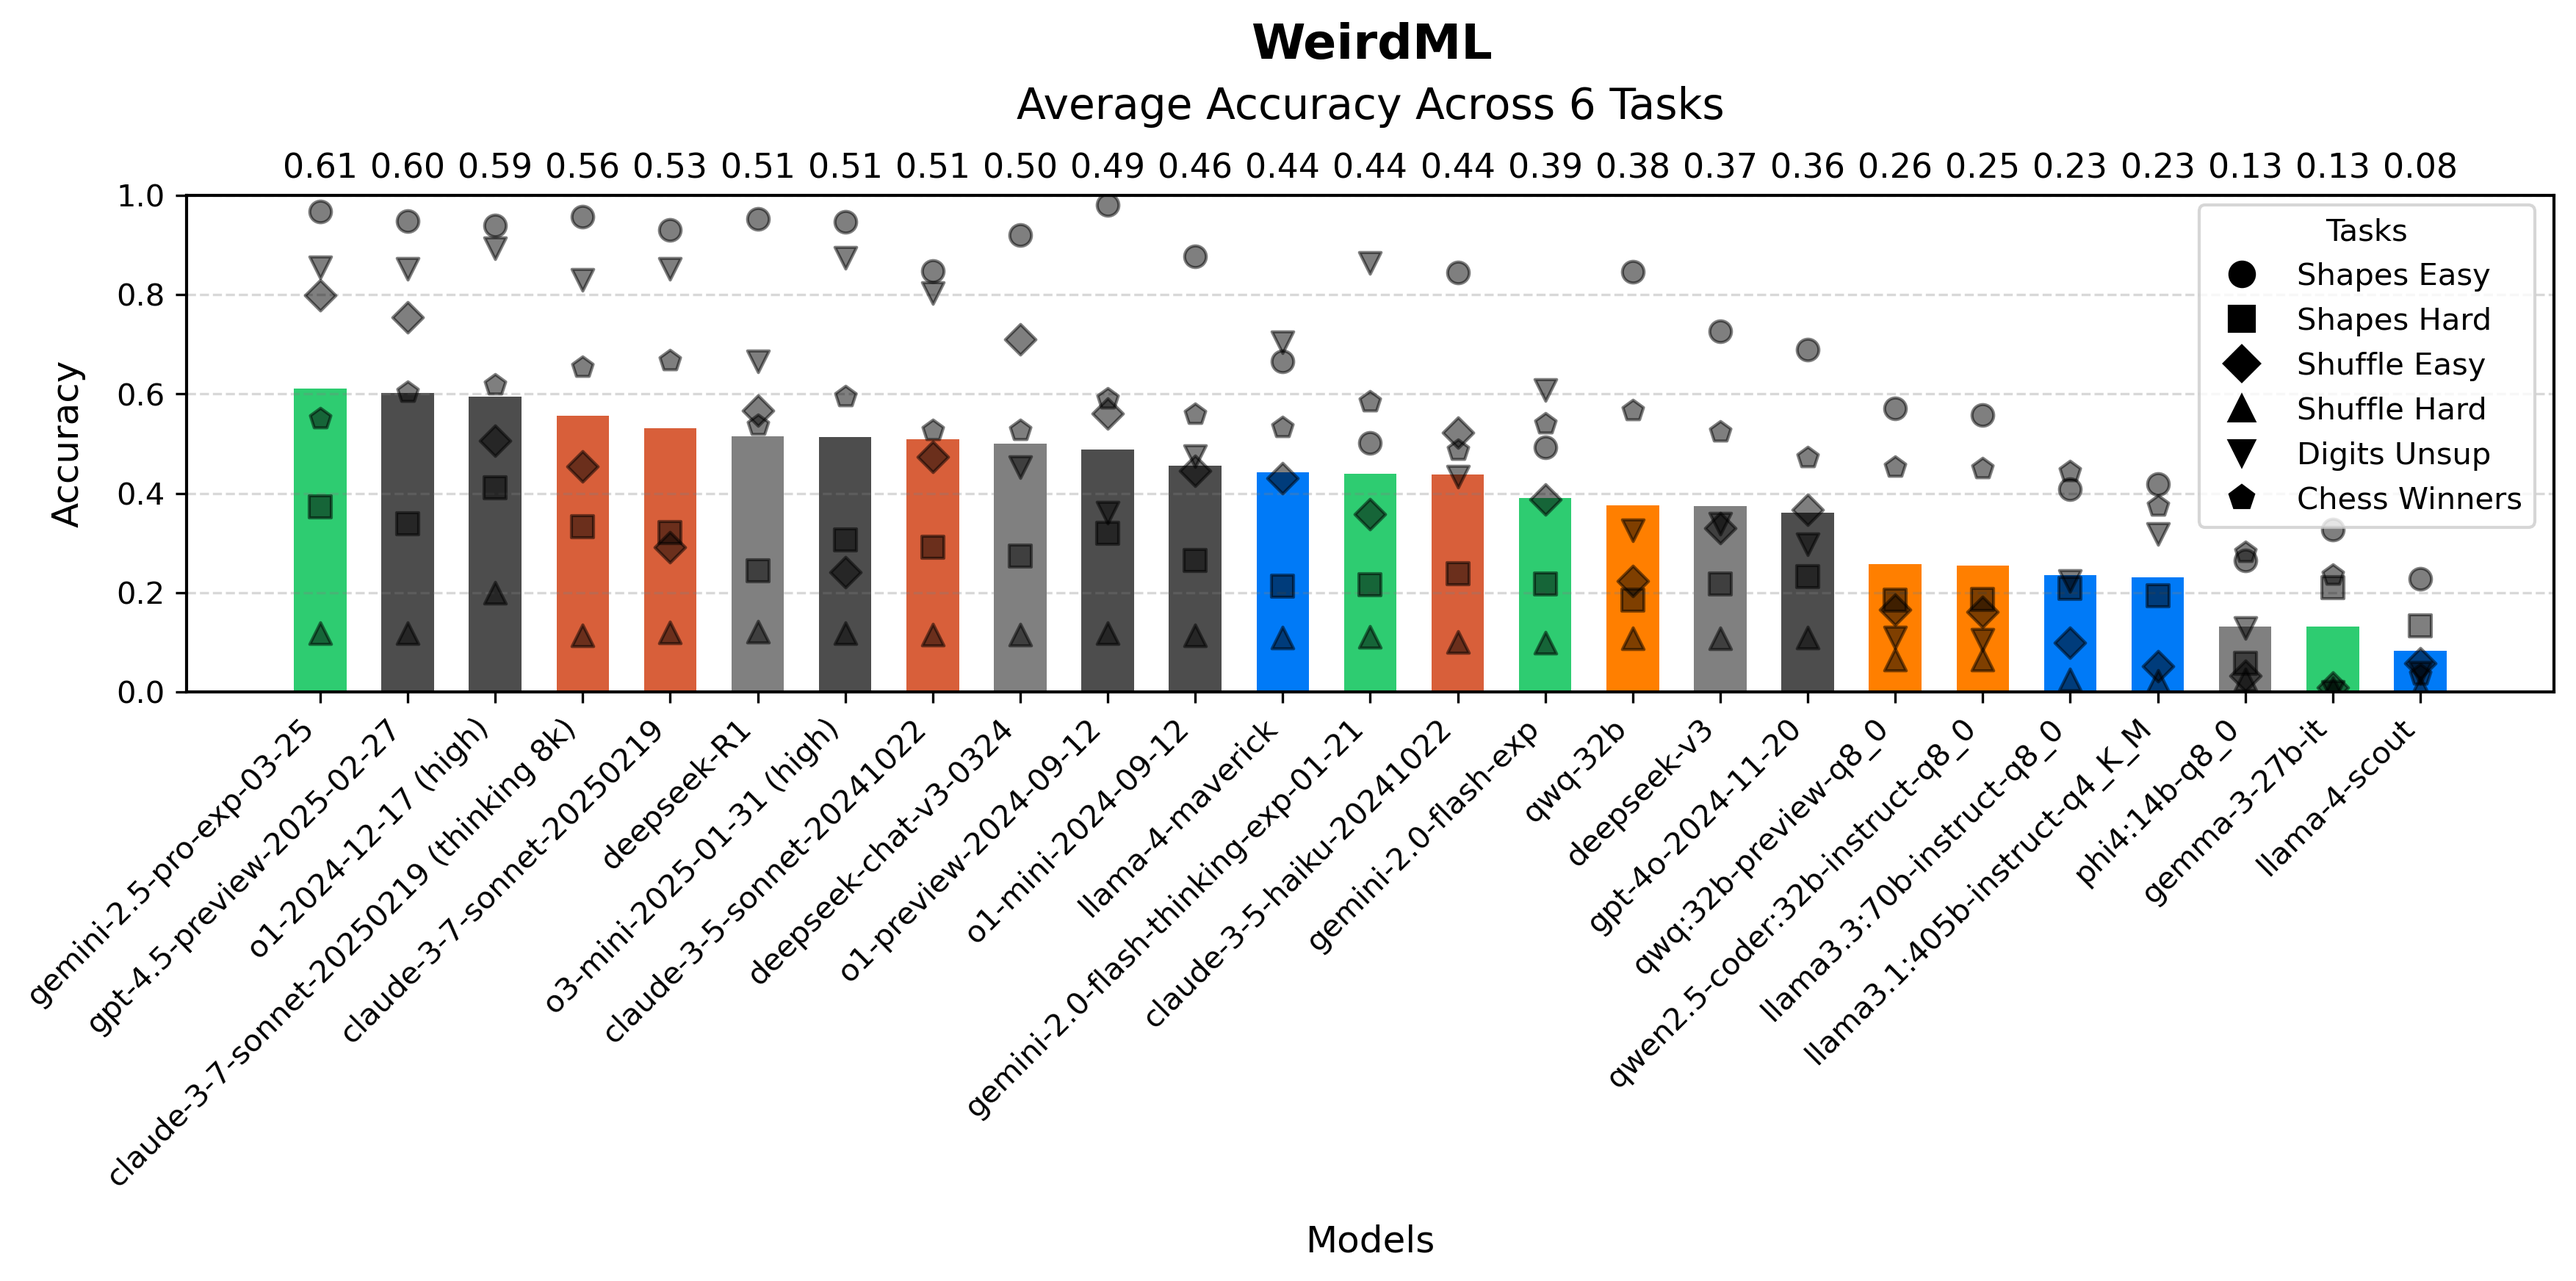
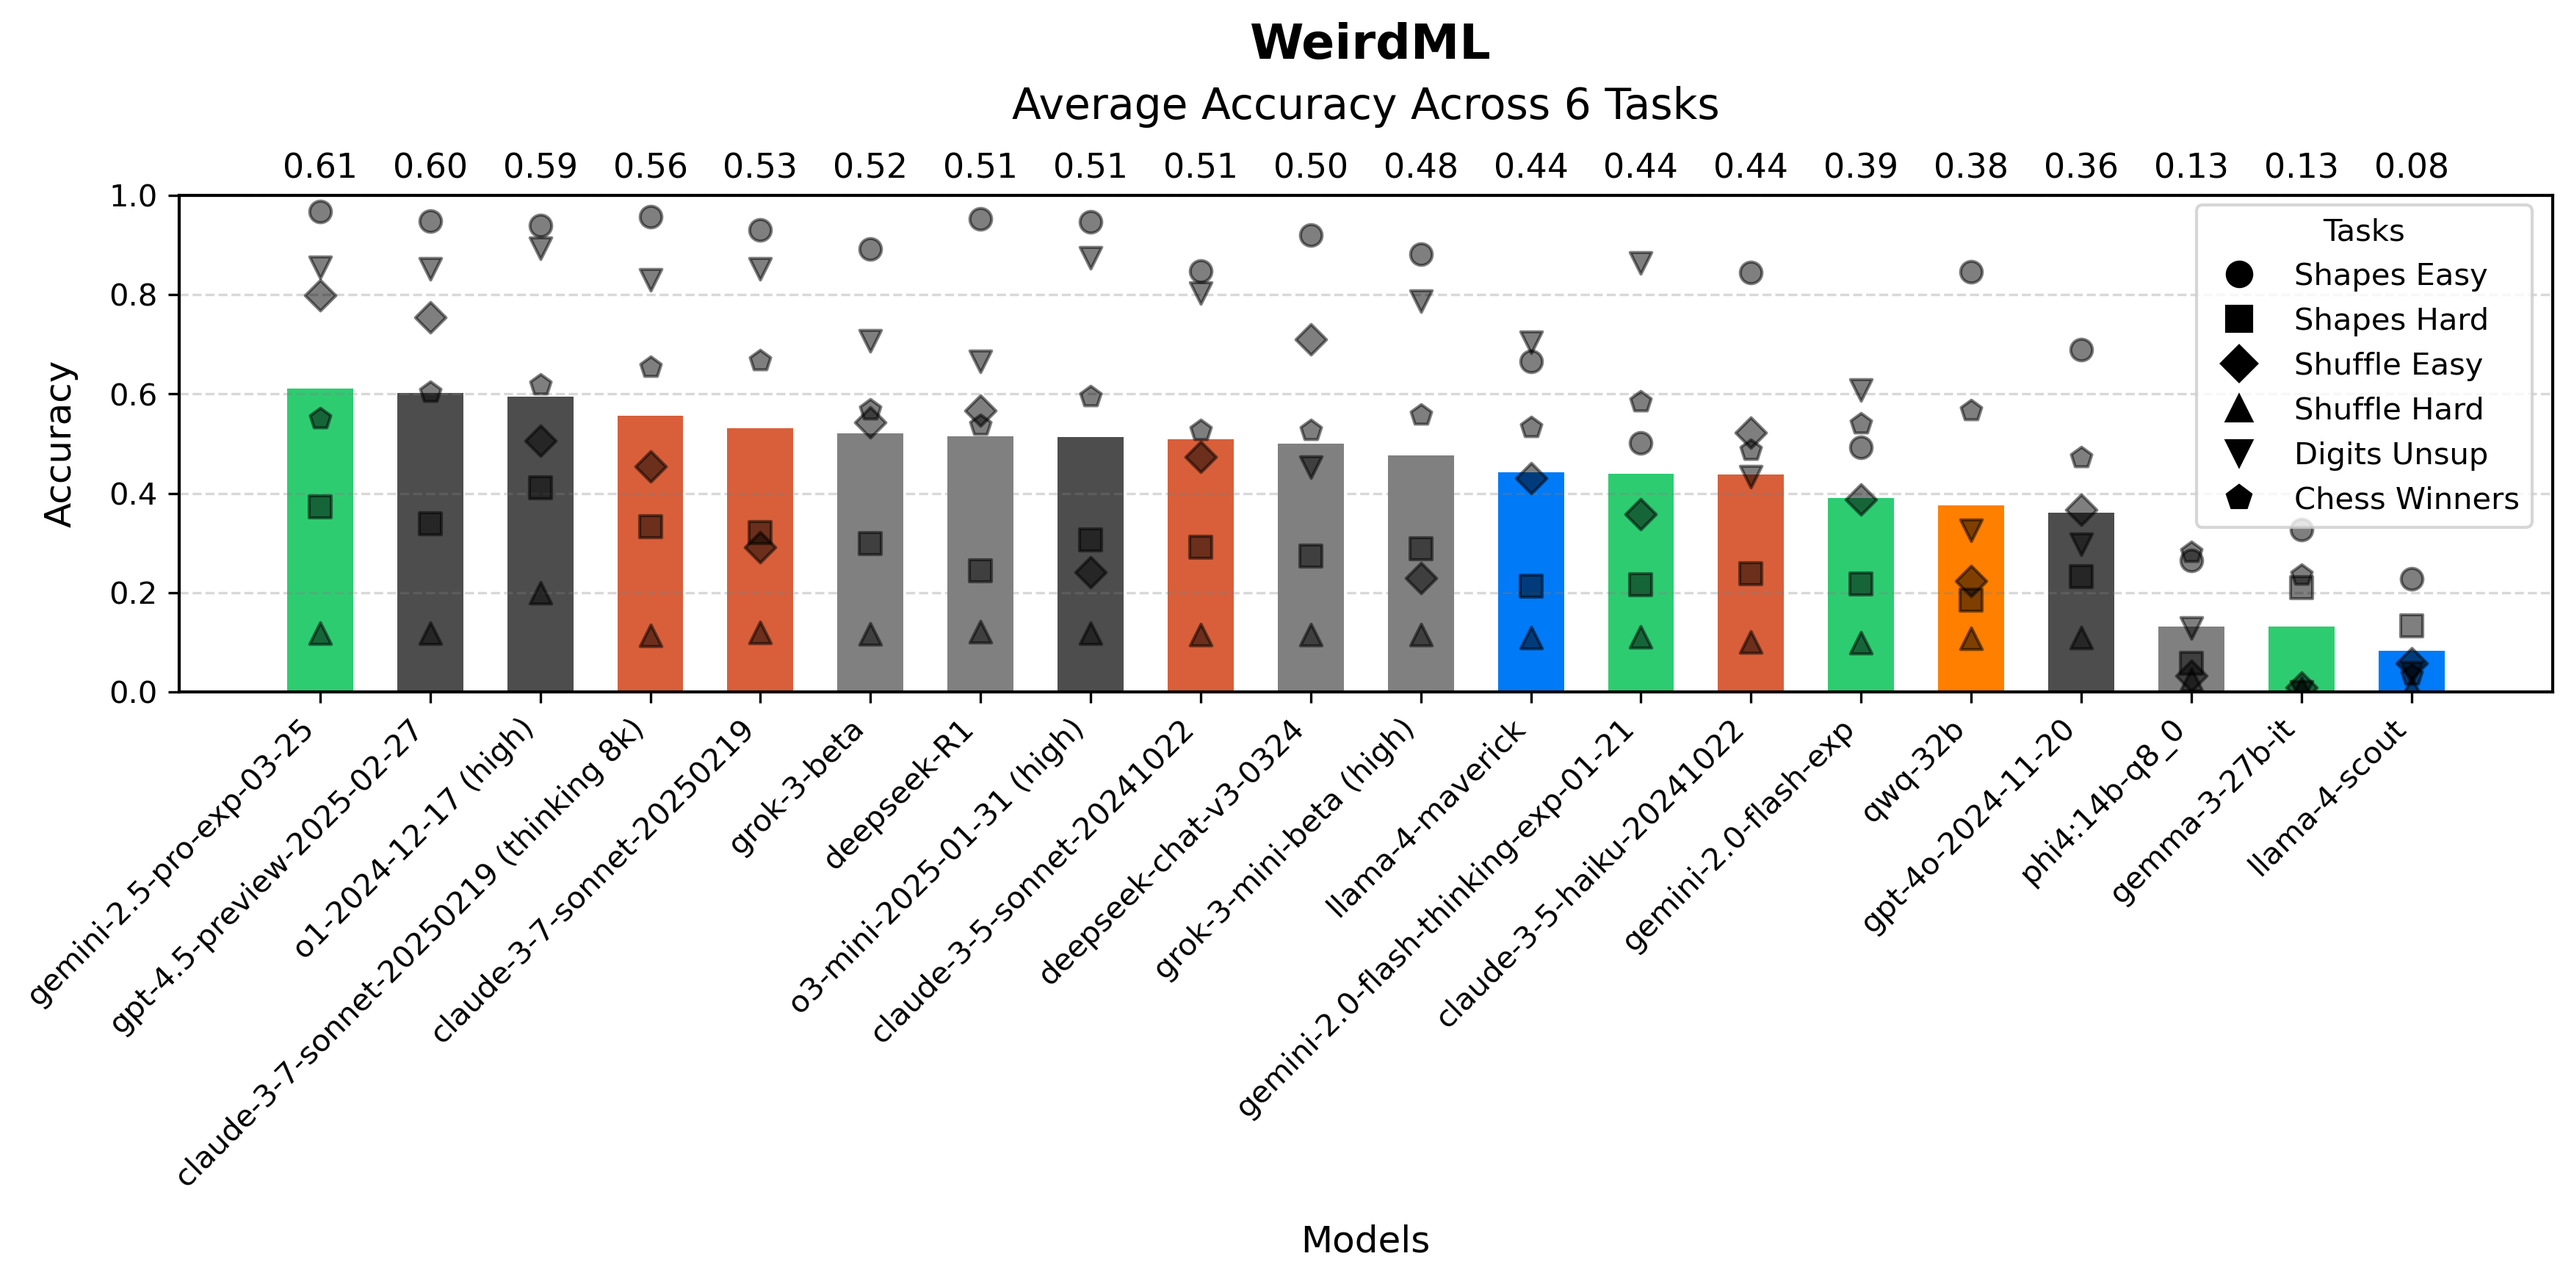
added grok-3 and a bunch of old models

diff --git a/weirdml.md b/weirdml.md
@@ -73,7 +73,7 @@ Each task comes with a task prompt describing the problem precisely and some exa
         <table>
             <tr>
                 <th class="header-cell">Model</th>
-    <th class="header-cell">Shapes Easy</th><th class="header-cell">Shapes Hard</th><th class="header-cell">Shuffle Easy</th><th class="header-cell">Shuffle Hard</th><th class="header-cell">Digits Unsup</th><th class="header-cell">Chess Winners</th><th class="header-cell">Average</th></tr><tr style="background-color: #2dcc7025"><td class="model-cell">gemini-2.5-pro-exp-03-25</td><td>96.70%</td><td>37.33%</td><td>79.83%</td><td>11.77%</td><td>85.55%</td><td>55.09%</td><td><strong>61.05%</strong></td></tr><tr style="background-color: #4c4c4c25"><td class="model-cell">gpt-4.5-preview-2025-02-27</td><td>94.86%</td><td>33.88%</td><td>75.42%</td><td>11.89%</td><td>85.24%</td><td>60.30%</td><td><strong>60.26%</strong></td></tr><tr style="background-color: #4c4c4c25"><td class="model-cell">o1-2024-12-17 (high)</td><td>93.86%</td><td>41.12%</td><td>50.66%</td><td>19.97%</td><td>89.40%</td><td>61.80%</td><td><strong>59.47%</strong></td></tr><tr style="background-color: #d75f3a25"><td class="model-cell">claude-3-7-sonnet-20250219 (thinking 8k)</td><td>95.74%</td><td>33.24%</td><td>45.48%</td><td>11.35%</td><td>83.00%</td><td>65.32%</td><td><strong>55.69%</strong></td></tr><tr style="background-color: #d75f3a25"><td class="model-cell">claude-3-7-sonnet-20250219</td><td>92.99%</td><td>32.10%</td><td>29.15%</td><td>11.99%</td><td>85.19%</td><td>66.77%</td><td><strong>53.03%</strong></td></tr><tr style="background-color: #7f7f7f25"><td class="model-cell">deepseek-R1</td><td>95.21%</td><td>24.47%</td><td>56.61%</td><td>12.17%</td><td>66.51%</td><td>53.67%</td><td><strong>51.44%</strong></td></tr><tr style="background-color: #4c4c4c25"><td class="model-cell">o3-mini-2025-01-31 (high)</td><td>94.65%</td><td>30.61%</td><td>24.17%</td><td>11.76%</td><td>87.39%</td><td>59.42%</td><td><strong>51.33%</strong></td></tr><tr style="background-color: #d75f3a25"><td class="model-cell">claude-3-5-sonnet-20241022</td><td>84.79%</td><td>29.12%</td><td>47.39%</td><td>11.46%</td><td>80.27%</td><td>52.62%</td><td><strong>50.94%</strong></td></tr><tr style="background-color: #7f7f7f25"><td class="model-cell">deepseek-chat-v3-0324</td><td>91.99%</td><td>27.31%</td><td>71.05%</td><td>11.49%</td><td>45.29%</td><td>52.59%</td><td><strong>49.95%</strong></td></tr><tr style="background-color: #4c4c4c25"><td class="model-cell">o1-preview-2024-09-12</td><td>98.02%</td><td>32.00%</td><td>56.03%</td><td>11.80%</td><td>36.08%</td><td>58.96%</td><td><strong>48.82%</strong></td></tr><tr style="background-color: #4c4c4c25"><td class="model-cell">o1-mini-2024-09-12</td><td>87.73%</td><td>26.49%</td><td>44.51%</td><td>11.44%</td><td>47.41%</td><td>55.89%</td><td><strong>45.58%</strong></td></tr><tr style="background-color: #0079f725"><td class="model-cell">llama-4-maverick</td><td>66.57%</td><td>21.27%</td><td>43.09%</td><td>10.94%</td><td>70.35%</td><td>53.21%</td><td><strong>44.24%</strong></td></tr><tr style="background-color: #2dcc7025"><td class="model-cell">gemini-2.0-flash-thinking-exp-01-21</td><td>50.17%</td><td>21.53%</td><td>35.85%</td><td>11.09%</td><td>86.41%</td><td>58.37%</td><td><strong>43.90%</strong></td></tr><tr style="background-color: #d75f3a25"><td class="model-cell">claude-3-5-haiku-20241022</td><td>84.39%</td><td>23.85%</td><td>52.23%</td><td>10.07%</td><td>43.33%</td><td>48.66%</td><td><strong>43.75%</strong></td></tr><tr style="background-color: #2dcc7025"><td class="model-cell">gemini-2.0-flash-exp</td><td>49.25%</td><td>21.76%</td><td>38.74%</td><td>9.83%</td><td>60.75%</td><td>53.98%</td><td><strong>39.05%</strong></td></tr><tr style="background-color: #ff7e0025"><td class="model-cell">qwq-32b</td><td>84.53%</td><td>18.53%</td><td>22.31%</td><td>10.81%</td><td>32.50%</td><td>56.63%</td><td><strong>37.55%</strong></td></tr><tr style="background-color: #7f7f7f25"><td class="model-cell">deepseek-v3</td><td>72.65%</td><td>21.70%</td><td>32.99%</td><td>10.78%</td><td>33.82%</td><td>52.30%</td><td><strong>37.37%</strong></td></tr><tr style="background-color: #4c4c4c25"><td class="model-cell">gpt-4o-2024-11-20</td><td>68.95%</td><td>23.28%</td><td>36.75%</td><td>10.90%</td><td>29.77%</td><td>47.22%</td><td><strong>36.15%</strong></td></tr><tr style="background-color: #ff7e0025"><td class="model-cell">qwq:32b-preview-q8_0</td><td>57.06%</td><td>18.44%</td><td>16.56%</td><td>6.46%</td><td>10.94%</td><td>45.32%</td><td><strong>25.80%</strong></td></tr><tr style="background-color: #ff7e0025"><td class="model-cell">qwen2.5-coder:32b-instruct-q8_0</td><td>55.75%</td><td>18.67%</td><td>16.16%</td><td>6.52%</td><td>10.53%</td><td>44.89%</td><td><strong>25.42%</strong></td></tr><tr style="background-color: #4c4c4c25"><td class="model-cell">gpt-4o-mini-2024-07-18</td><td>32.93%</td><td>19.95%</td><td>18.83%</td><td>4.87%</td><td>27.00%</td><td>38.28%</td><td><strong>23.64%</strong></td></tr><tr style="background-color: #0079f725"><td class="model-cell">llama3.3:70b-instruct-q8_0</td><td>40.86%</td><td>20.85%</td><td>9.86%</td><td>2.52%</td><td>22.35%</td><td>44.44%</td><td><strong>23.48%</strong></td></tr><tr style="background-color: #0079f725"><td class="model-cell">llama3.1:405b-instruct-q4_K_M</td><td>41.91%</td><td>19.41%</td><td>5.19%</td><td>2.27%</td><td>31.85%</td><td>37.40%</td><td><strong>23.00%</strong></td></tr><tr style="background-color: #7f7f7f25"><td class="model-cell">phi4:14b-q8_0</td><td>26.48%</td><td>5.73%</td><td>3.30%</td><td>2.44%</td><td>12.92%</td><td>28.08%</td><td><strong>13.16%</strong></td></tr><tr style="background-color: #2dcc7025"><td class="model-cell">gemma-3-27b-it</td><td>32.75%</td><td>20.95%</td><td>0.87%</td><td>0.74%</td><td>0.00%</td><td>23.54%</td><td><strong>13.14%</strong></td></tr><tr style="background-color: #0079f725"><td class="model-cell">llama-4-scout</td><td>22.77%</td><td>13.38%</td><td>5.70%</td><td>0.76%</td><td>3.87%</td><td>3.37%</td><td><strong>8.31%</strong></td></tr><tr style="background-color: #0079f725"><td class="model-cell">llama3.1:8b-instruct-q8_0</td><td>6.77%</td><td>2.22%</td><td>0.66%</td><td>0.76%</td><td>1.35%</td><td>0.00%</td><td><strong>1.96%</strong></td></tr>
+    <th class="header-cell">Shapes Easy</th><th class="header-cell">Shapes Hard</th><th class="header-cell">Shuffle Easy</th><th class="header-cell">Shuffle Hard</th><th class="header-cell">Digits Unsup</th><th class="header-cell">Chess Winners</th><th class="header-cell">Average</th></tr><tr style="background-color: #2dcc7025"><td class="model-cell">gemini-2.5-pro-exp-03-25</td><td>96.70%</td><td>37.33%</td><td>79.83%</td><td>11.77%</td><td>85.55%</td><td>55.09%</td><td><strong>61.05%</strong></td></tr><tr style="background-color: #4c4c4c25"><td class="model-cell">gpt-4.5-preview-2025-02-27</td><td>94.86%</td><td>33.88%</td><td>75.42%</td><td>11.89%</td><td>85.24%</td><td>60.30%</td><td><strong>60.26%</strong></td></tr><tr style="background-color: #4c4c4c25"><td class="model-cell">o1-2024-12-17 (high)</td><td>93.86%</td><td>41.12%</td><td>50.66%</td><td>19.97%</td><td>89.40%</td><td>61.80%</td><td><strong>59.47%</strong></td></tr><tr style="background-color: #d75f3a25"><td class="model-cell">claude-3-7-sonnet-20250219 (thinking 8k)</td><td>95.74%</td><td>33.24%</td><td>45.48%</td><td>11.35%</td><td>83.00%</td><td>65.32%</td><td><strong>55.69%</strong></td></tr><tr style="background-color: #d75f3a25"><td class="model-cell">claude-3-7-sonnet-20250219</td><td>92.99%</td><td>32.10%</td><td>29.15%</td><td>11.99%</td><td>85.19%</td><td>66.77%</td><td><strong>53.03%</strong></td></tr><tr style="background-color: #7f7f7f25"><td class="model-cell">grok-3-beta</td><td>89.13%</td><td>29.83%</td><td>54.32%</td><td>11.74%</td><td>70.67%</td><td>56.79%</td><td><strong>52.08%</strong></td></tr><tr style="background-color: #7f7f7f25"><td class="model-cell">deepseek-R1</td><td>95.21%</td><td>24.47%</td><td>56.61%</td><td>12.17%</td><td>66.51%</td><td>53.67%</td><td><strong>51.44%</strong></td></tr><tr style="background-color: #4c4c4c25"><td class="model-cell">o3-mini-2025-01-31 (high)</td><td>94.65%</td><td>30.61%</td><td>24.17%</td><td>11.76%</td><td>87.39%</td><td>59.42%</td><td><strong>51.33%</strong></td></tr><tr style="background-color: #d75f3a25"><td class="model-cell">claude-3-5-sonnet-20241022</td><td>84.79%</td><td>29.12%</td><td>47.39%</td><td>11.46%</td><td>80.27%</td><td>52.62%</td><td><strong>50.94%</strong></td></tr><tr style="background-color: #7f7f7f25"><td class="model-cell">deepseek-chat-v3-0324</td><td>91.99%</td><td>27.31%</td><td>71.05%</td><td>11.49%</td><td>45.29%</td><td>52.59%</td><td><strong>49.95%</strong></td></tr><tr style="background-color: #4c4c4c25"><td class="model-cell">o1-preview-2024-09-12</td><td>98.02%</td><td>32.00%</td><td>56.03%</td><td>11.80%</td><td>36.08%</td><td>58.96%</td><td><strong>48.82%</strong></td></tr><tr style="background-color: #7f7f7f25"><td class="model-cell">grok-3-mini-beta (high)</td><td>88.18%</td><td>28.89%</td><td>23.00%</td><td>11.58%</td><td>78.71%</td><td>55.69%</td><td><strong>47.67%</strong></td></tr><tr style="background-color: #4c4c4c25"><td class="model-cell">o1-mini-2024-09-12</td><td>87.73%</td><td>26.49%</td><td>44.51%</td><td>11.44%</td><td>47.41%</td><td>55.89%</td><td><strong>45.58%</strong></td></tr><tr style="background-color: #0079f725"><td class="model-cell">llama-4-maverick</td><td>66.57%</td><td>21.27%</td><td>43.09%</td><td>10.94%</td><td>70.35%</td><td>53.21%</td><td><strong>44.24%</strong></td></tr><tr style="background-color: #2dcc7025"><td class="model-cell">gemini-2.0-flash-thinking-exp-01-21</td><td>50.17%</td><td>21.53%</td><td>35.85%</td><td>11.09%</td><td>86.41%</td><td>58.37%</td><td><strong>43.90%</strong></td></tr><tr style="background-color: #d75f3a25"><td class="model-cell">claude-3-5-haiku-20241022</td><td>84.39%</td><td>23.85%</td><td>52.23%</td><td>10.07%</td><td>43.33%</td><td>48.66%</td><td><strong>43.75%</strong></td></tr><tr style="background-color: #2dcc7025"><td class="model-cell">gemini-2.0-flash-exp</td><td>49.25%</td><td>21.76%</td><td>38.74%</td><td>9.83%</td><td>60.75%</td><td>53.98%</td><td><strong>39.05%</strong></td></tr><tr style="background-color: #2dcc7025"><td class="model-cell">gemini-2.0-pro-exp-02-05</td><td>47.41%</td><td>22.05%</td><td>39.53%</td><td>11.33%</td><td>57.15%</td><td>50.71%</td><td><strong>38.03%</strong></td></tr><tr style="background-color: #ff7e0025"><td class="model-cell">qwq-32b</td><td>84.53%</td><td>18.53%</td><td>22.31%</td><td>10.81%</td><td>32.50%</td><td>56.63%</td><td><strong>37.55%</strong></td></tr><tr style="background-color: #7f7f7f25"><td class="model-cell">deepseek-v3</td><td>72.65%</td><td>21.70%</td><td>32.99%</td><td>10.78%</td><td>33.82%</td><td>52.30%</td><td><strong>37.37%</strong></td></tr><tr style="background-color: #4c4c4c25"><td class="model-cell">gpt-4o-2024-11-20</td><td>68.95%</td><td>23.28%</td><td>36.75%</td><td>10.90%</td><td>29.77%</td><td>47.22%</td><td><strong>36.15%</strong></td></tr><tr style="background-color: #7f7f7f25"><td class="model-cell">grok-2-1212</td><td>70.59%</td><td>21.40%</td><td>14.53%</td><td>5.40%</td><td>14.36%</td><td>39.45%</td><td><strong>27.62%</strong></td></tr><tr style="background-color: #ff7e0025"><td class="model-cell">qwq:32b-preview-q8_0</td><td>57.06%</td><td>18.44%</td><td>16.56%</td><td>6.46%</td><td>10.94%</td><td>45.32%</td><td><strong>25.80%</strong></td></tr><tr style="background-color: #ff7e0025"><td class="model-cell">qwen2.5-coder:32b-instruct-q8_0</td><td>55.75%</td><td>18.67%</td><td>16.16%</td><td>6.52%</td><td>10.53%</td><td>44.89%</td><td><strong>25.42%</strong></td></tr><tr style="background-color: #4c4c4c25"><td class="model-cell">gpt-4o-mini-2024-07-18</td><td>32.93%</td><td>19.95%</td><td>18.83%</td><td>4.87%</td><td>27.00%</td><td>38.28%</td><td><strong>23.64%</strong></td></tr><tr style="background-color: #0079f725"><td class="model-cell">llama3.3:70b-instruct-q8_0</td><td>40.86%</td><td>20.85%</td><td>9.86%</td><td>2.52%</td><td>22.35%</td><td>44.44%</td><td><strong>23.48%</strong></td></tr><tr style="background-color: #0079f725"><td class="model-cell">llama3.1:405b-instruct-q4_K_M</td><td>41.91%</td><td>19.41%</td><td>5.19%</td><td>2.27%</td><td>31.85%</td><td>37.40%</td><td><strong>23.00%</strong></td></tr><tr style="background-color: #7f7f7f25"><td class="model-cell">phi4:14b-q8_0</td><td>26.48%</td><td>5.73%</td><td>3.30%</td><td>2.44%</td><td>12.92%</td><td>28.08%</td><td><strong>13.16%</strong></td></tr><tr style="background-color: #2dcc7025"><td class="model-cell">gemma-3-27b-it</td><td>32.75%</td><td>20.95%</td><td>0.87%</td><td>0.74%</td><td>0.00%</td><td>23.54%</td><td><strong>13.14%</strong></td></tr><tr style="background-color: #0079f725"><td class="model-cell">llama-4-scout</td><td>22.77%</td><td>13.38%</td><td>5.70%</td><td>0.76%</td><td>3.87%</td><td>3.37%</td><td><strong>8.31%</strong></td></tr><tr style="background-color: #2dcc7025"><td class="model-cell">gemma2:27b-instruct-q8_0</td><td>21.51%</td><td>8.76%</td><td>0.00%</td><td>1.49%</td><td>0.00%</td><td>0.00%</td><td><strong>5.30%</strong></td></tr><tr style="background-color: #0079f725"><td class="model-cell">llama3.1:8b-instruct-q8_0</td><td>6.77%</td><td>2.22%</td><td>0.66%</td><td>0.76%</td><td>1.35%</td><td>0.00%</td><td><strong>1.96%</strong></td></tr>
         </table>
     </div>
     <p><em>Average accuracy across all six tasks for each model.</em></p>
